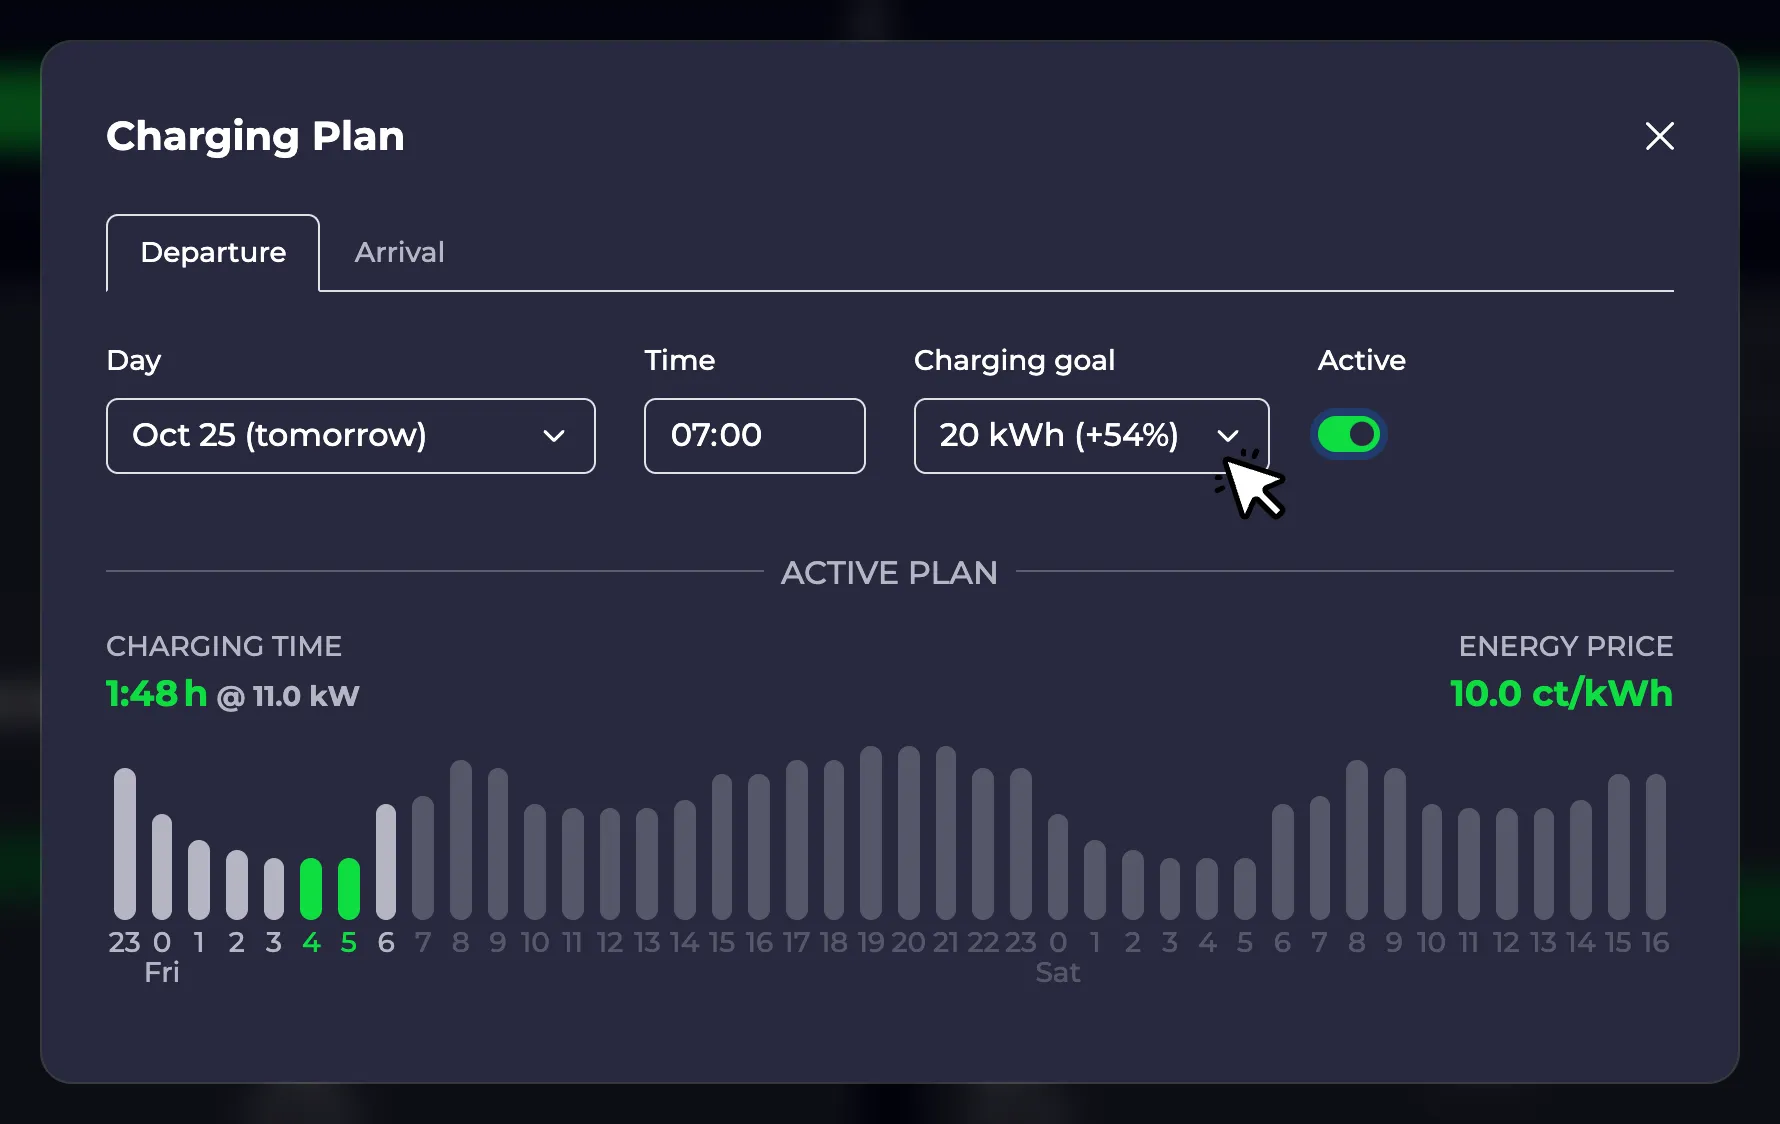
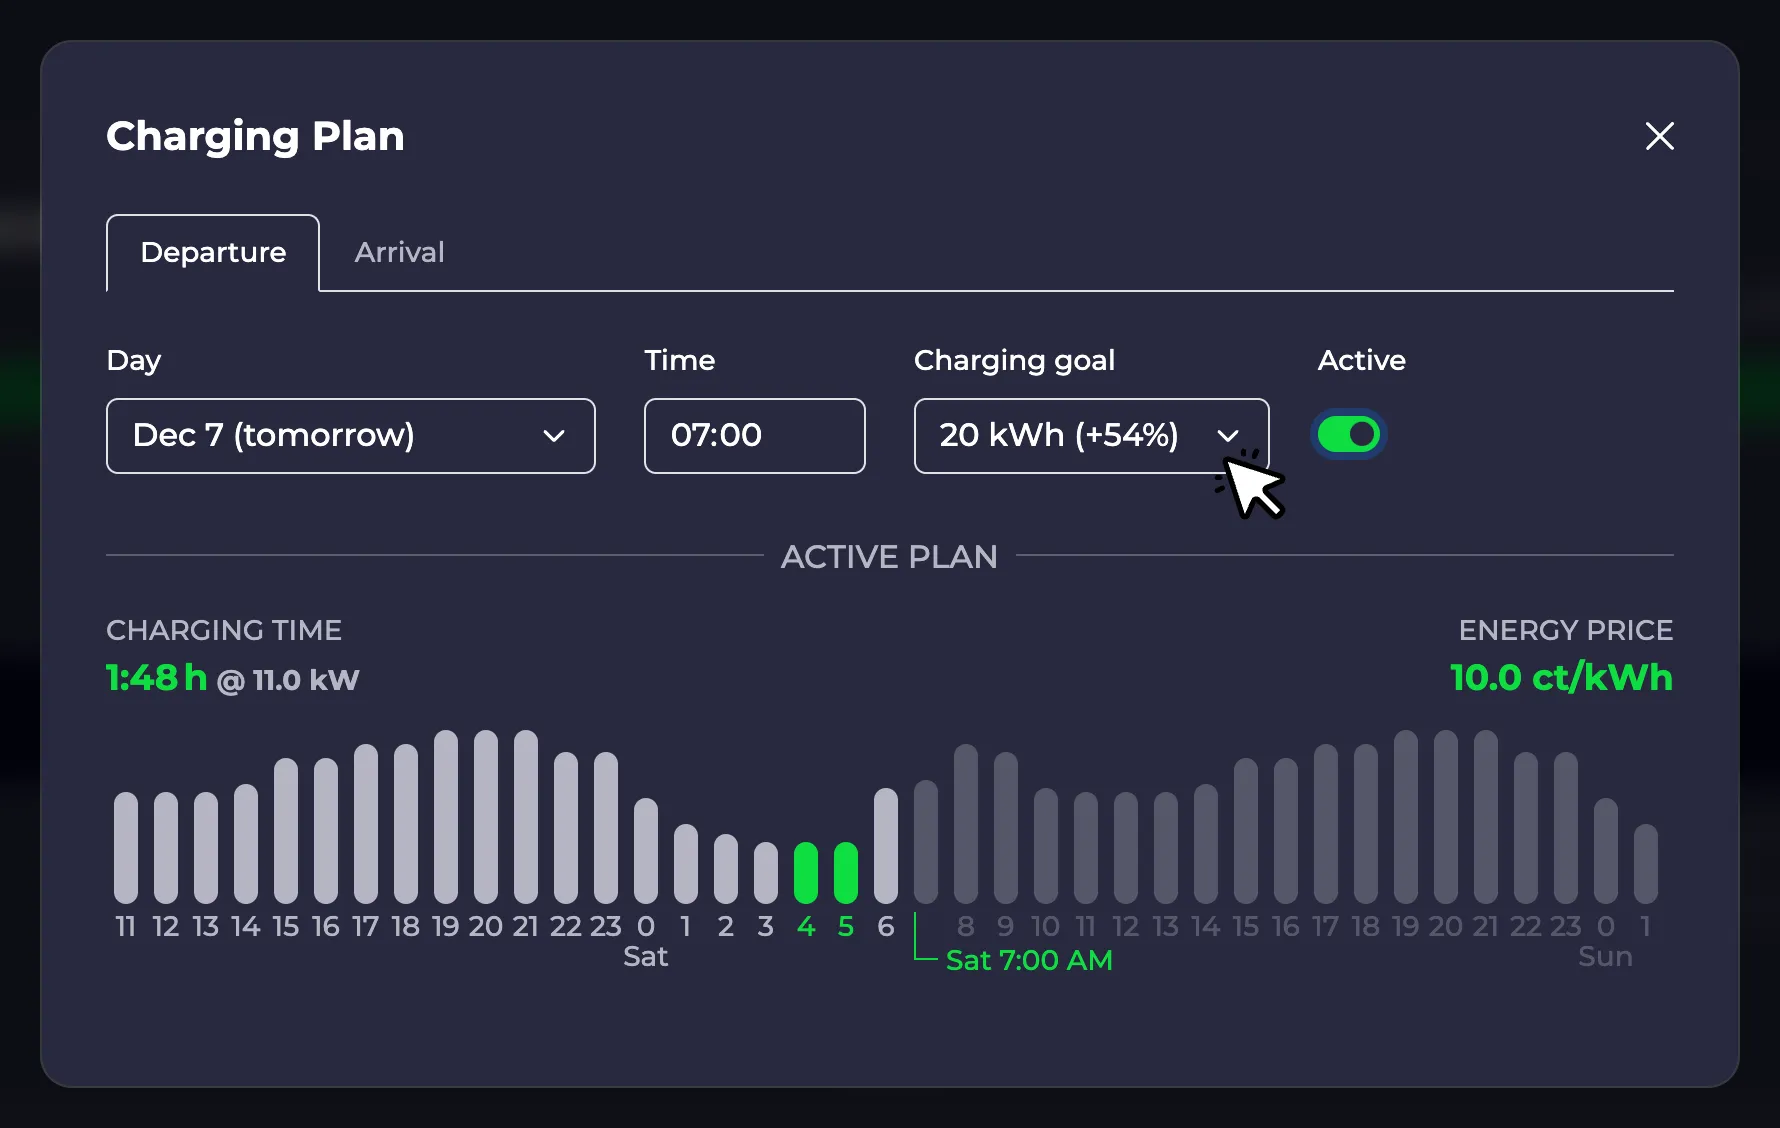
Feature: repeating plans

diff --git a/screenshot-generator/recipes/plan.spec.js b/screenshot-generator/recipes/plan.spec.js
@@ -1,6 +1,6 @@
 const { test, expect } = require("@playwright/test");
 import { loop } from "./utils/loop";
-import { CURSOR, ARROW, placeOverlay } from "./utils/overlay";
+import { CURSOR, placeOverlay, removeOverlays } from "./utils/overlay";
 const { start, stop } = require("./utils/evcc");
 
 const BASE_PATH = "features/screenshots";
@@ -19,12 +19,26 @@ loop((screenshot) => {
     await page.goto(`/`);
     await page.locator("[data-testid=charging-plan] button").first().click();
     await wait(300);
-    await page.getByTestId("plan-soc").selectOption("90");
-    await page.getByTestId("plan-active").click();
-    await placeOverlay(page, "#chargingplan-1_0-goal", CURSOR, 60, 5);
+    await page.getByTestId("static-plan-soc").selectOption("90");
+    await page.getByTestId("static-plan-active").click();
+    await placeOverlay(page, "#chargingplan-lp1-1-goal", CURSOR, 60, 5);
     await screenshot(
       page,
       `${BASE_PATH}/plan-soc`,
+      "#chargingPlanModal_1 .modal-content",
+      {
+        all: 20,
+      },
+    );
+    await removeOverlays(page);
+    await page.getByTestId("static-plan-active").click();
+    await page.getByTestId("repeating-plan-add").click();
+    await page.getByTestId("repeating-plan-soc").selectOption("40");
+    await page.getByTestId("repeating-plan-active").click();
+    await placeOverlay(page, "#chargingplan-lp1-2-weekdays", CURSOR, 0, 5);
+    await screenshot(
+      page,
+      `${BASE_PATH}/plan-soc-repeating`,
       "#chargingPlanModal_1 .modal-content",
       {
         all: 20,
@@ -41,9 +55,9 @@ loop((screenshot) => {
 
     await page.locator("[data-testid=charging-plan] button").first().click();
     await wait(300);
-    await page.getByTestId("plan-energy").selectOption("20");
-    await page.getByTestId("plan-active").click();
-    await placeOverlay(page, "#chargingplan-1_0-goal", CURSOR, 60, 5);
+    await page.getByTestId("static-plan-energy").selectOption("20");
+    await page.getByTestId("static-plan-active").click();
+    await placeOverlay(page, "#chargingplan-lp1-1-goal", CURSOR, 60, 5);
     await screenshot(
       page,
       `${BASE_PATH}/plan-energy`,

diff --git a/screenshot-generator/playwright.config.js b/screenshot-generator/playwright.config.js
@@ -22,7 +22,11 @@ module.exports = defineConfig({
   projects: [
     {
       name: "chromium",
-      use: { ...devices["Desktop Chrome"], deviceScaleFactor: 2 },
+      use: {
+        ...devices["Desktop Chrome"],
+        deviceScaleFactor: 2,
+        viewport: { width: 1280, height: 1600 },
+      },
     },
   ],
 });
